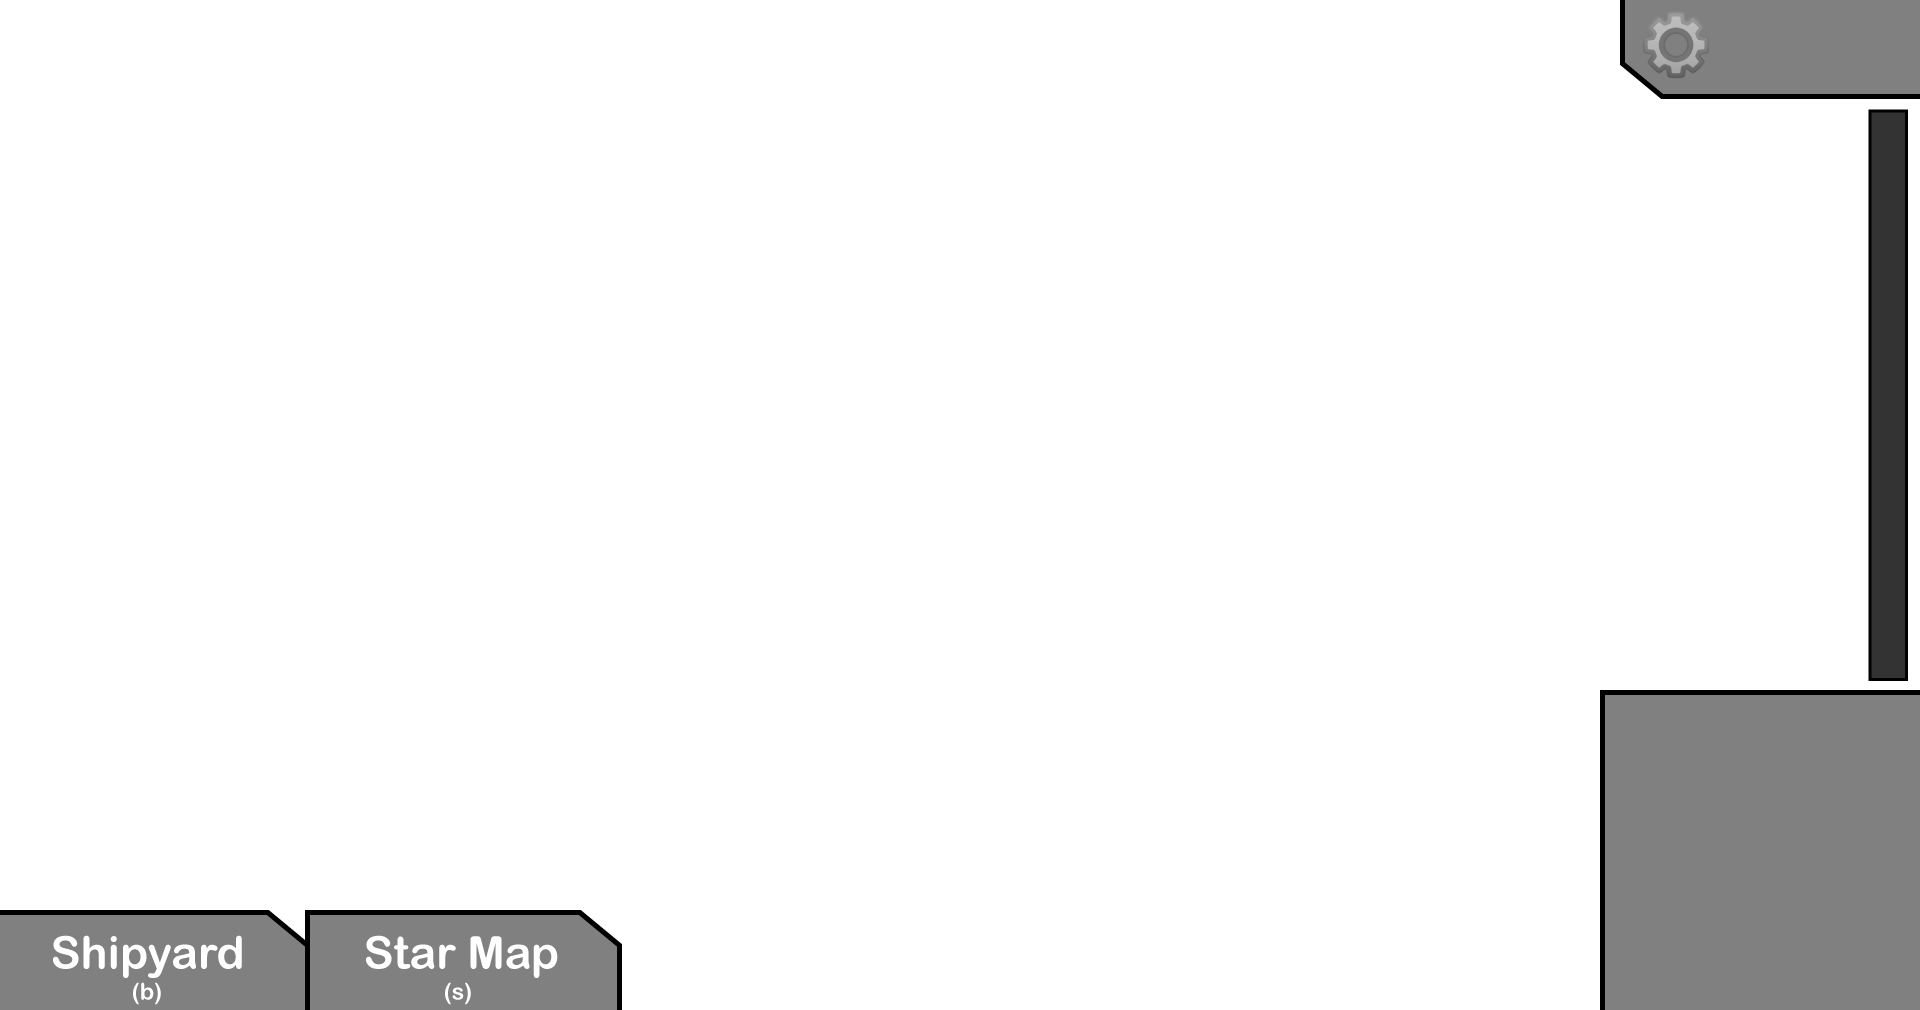
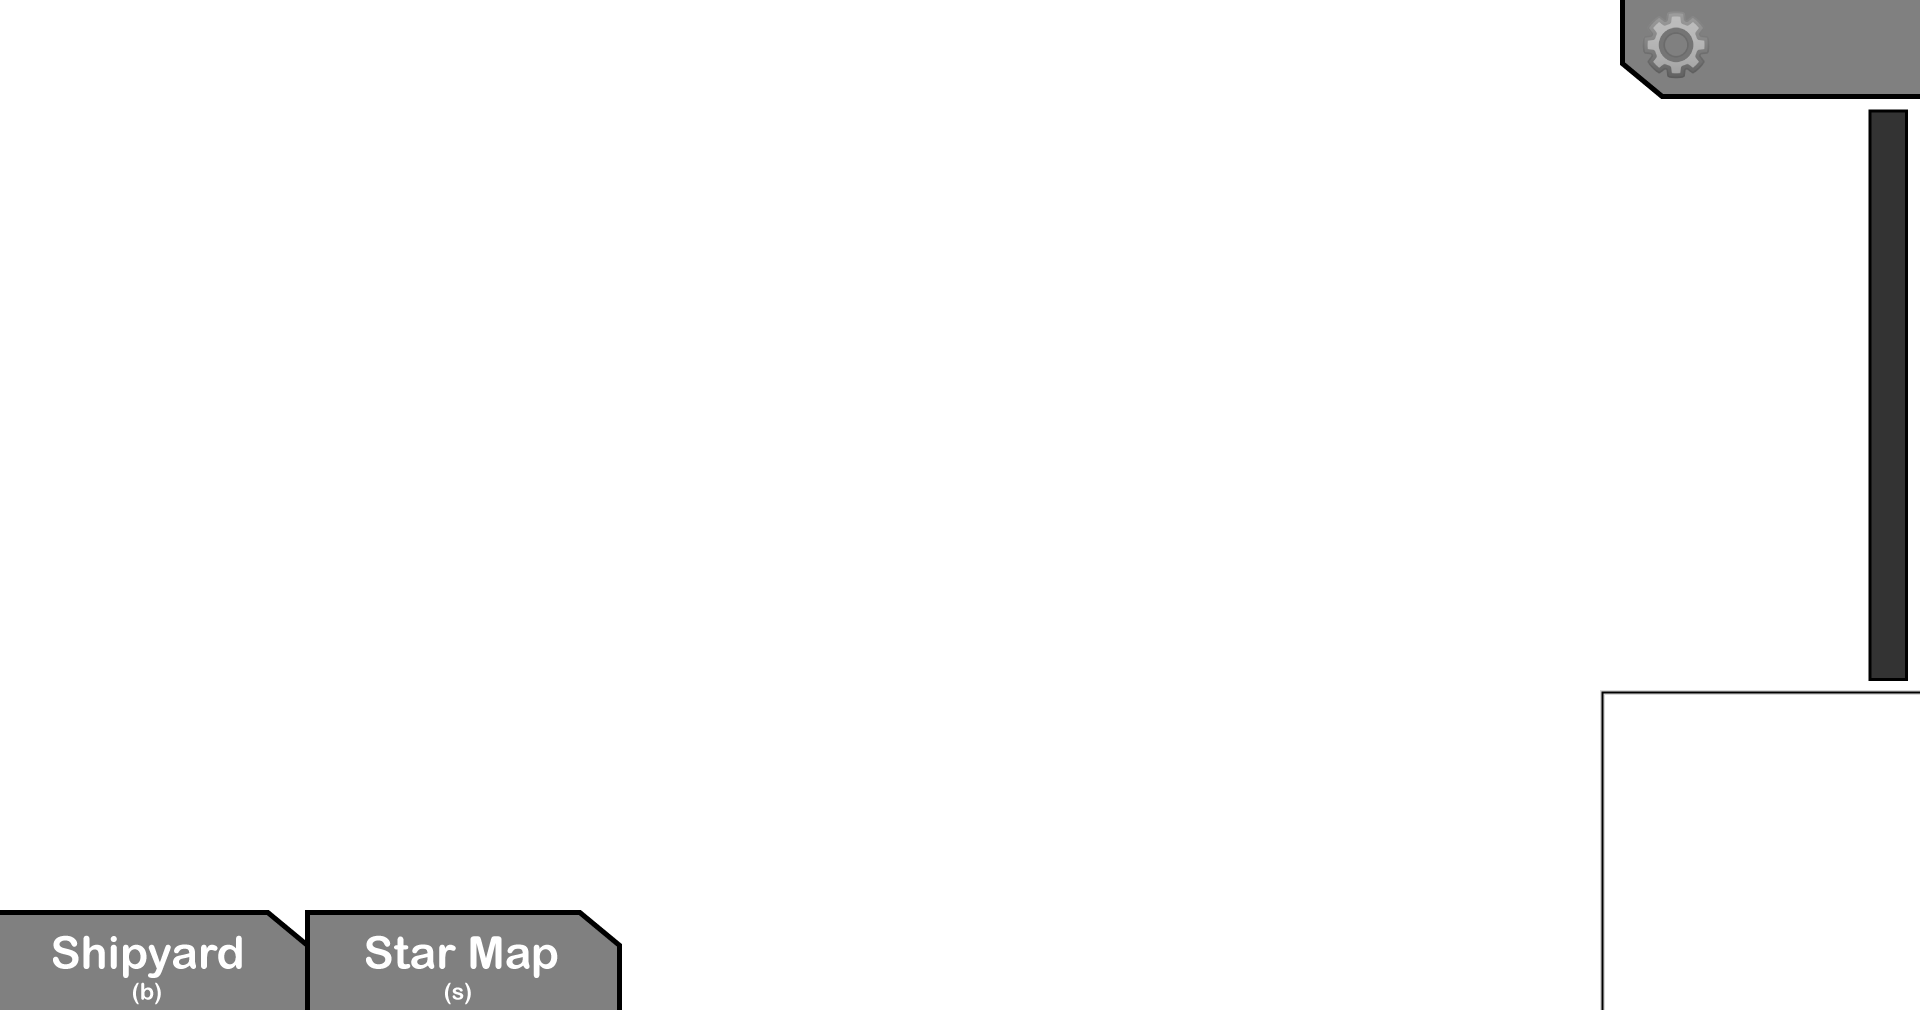
mini map added and starting quality of life

Changed region(s): [[0.8125, 0.6752, 1.0, 1.0]]

diff --git a/Drone Constructor - CSQ4 Game/src/BattleScene.java b/Drone Constructor - CSQ4 Game/src/BattleScene.java
@@ -14,6 +14,8 @@ public class BattleScene extends Scene {
 
 	BufferedImage ui = Misc.loadImage("/battleScene.png");
 	
+	MiniMap minimap = new MiniMap(1605, 695, 310, 315, .03);
+	
 	Button shipYard;
 	Button starMap;
 
@@ -22,8 +24,10 @@ public class BattleScene extends Scene {
 
 	@Override
 	public void draw(Graphics2D g) {
-		
+		g.setColor(new Color(36, 36, 36));
+		g.fillRect(0, 0, Driver.screenWidth, Driver.screenHeight);
 
+		g.setColor(new Color(87, 87, 87));
 		SceneManager.sm.currSector.drawBasicGrid(g, 1000000, (int) (100 * (1 / Math.sqrt((Camera.scale)))), 2);
 		
 
@@ -52,14 +56,15 @@ public class BattleScene extends Scene {
 	//	System.out.println(((int)((p.transForces[0]/p.mass)*110 - (p.vel.getMagnitude() * Sector.sectorDrag))));
 		//g.fillRect(1825, (int)(677 - 564*((int)((p.transForces[0]/p.mass)*110 - (p.vel.getMagnitude() * Sector.sectorDrag)) / (p.transForces[0]/p.mass))), 33, 564);
 		g.setFont(Misc.font);
-		g.setColor(Color.BLACK);
+		g.setColor(Color.LIGHT_GRAY);
 		g.drawString((int) (p.vel.getMagnitude() * 20) + " mph", 1760, 564 - (int) (564 * ((p.vel.getMagnitude() * 20)
 				/ (int) ((p.transForces[0] * 2462.0 / p.mass / Sector.sectorDrag)))) + 120);
 		
 		
 		//shipYard.draw(g);
 		//starMap.draw(g);
-		
+		minimap.mc.focus(Camera.toMap(Driver.screenWidth/2, Driver.screenHeight/2));
+minimap.draw(g, SceneManager.sm.currSector.ships);
 
 	}
 
@@ -99,7 +104,7 @@ public class BattleScene extends Scene {
 		if (InputManager.keysReleased[66] || shipYard.clicked) {
 			swtichToBuild();
 		}
-		if (InputManager.keysReleased[83] || starMap.clicked) {
+		if (InputManager.keysReleased[77] || starMap.clicked) {
 			swtichToStarMap();
 		}
 		// key to select a ship

diff --git a/Drone Constructor - CSQ4 Game/src/StarMap.java b/Drone Constructor - CSQ4 Game/src/StarMap.java
@@ -1,6 +1,7 @@
 import java.awt.BasicStroke;
 import java.awt.Color;
 import java.awt.Graphics2D;
+import java.awt.image.BufferedImage;
 import java.util.ArrayList;
 
 public class StarMap extends Scene {
@@ -14,6 +15,8 @@ public class StarMap extends Scene {
 	double rSkipChance = .1;
 	int sX = 6;
 	int sY = 5;
+	
+	BufferedImage star = Misc.loadImage("/star.png");
 	
 	Ship player;
 
@@ -34,12 +37,13 @@ public class StarMap extends Scene {
 		}
 
 		for (Sector s : sectors) {
-			s.pos.fillCircle(g, 5);
+			g.drawImage(star, (int)s.pos.x - star.getWidth()/4, (int)s.pos.y - star.getHeight()/4,star.getWidth()/2, star.getHeight()/2, null);
 		}
+		g.setStroke(new BasicStroke(6));
 		g.setColor(Color.GREEN);
-		currSector.pos.fillCircle(g, 10);
+		currSector.pos.drawCircle(g, 30);
 		g.setColor(Color.blue);
-		endSector.pos.fillCircle(g, 10);
+		endSector.pos.drawCircle(g, 30);
 		g.setColor(Color.white);
 		g.setFont(Misc.arialSmall);
 		g.drawString("YOU", (int) currSector.pos.x, (int) currSector.pos.y - 30);
@@ -51,14 +55,15 @@ public class StarMap extends Scene {
 			g.setFont(Misc.arialBig);
 			g.setColor(Color.white);
 			g.drawString("JUMP", 1920/2 - 100, 1010 - 80);
-			g.setStroke(new BasicStroke(3));
-			g.setColor(Color.white);
-			selected.pos.drawCircle(g, 10);
+			g.setStroke(new BasicStroke(6));
+			g.setColor(Color.CYAN);
+			selected.pos.drawCircle(g, 30);
+			currSector.pos.drawDashedLine(g, selected.pos);
 			}
 		if(hover != null) {
-			g.setStroke(new BasicStroke(3));
+			g.setStroke(new BasicStroke(6));
 			g.setColor(Color.white);
-			hover.pos.drawCircle(g, 10);
+			hover.pos.drawCircle(g, 30);
 		}
 		
 	}

diff --git a/Drone Constructor - CSQ4 Game/src/MiniMap.java b/Drone Constructor - CSQ4 Game/src/MiniMap.java
@@ -4,15 +4,28 @@ import java.util.ArrayList;
 
 public class MiniMap {
 	Rect bounds;
-	double scale = 1.0/10.0; //1 px map = 10 px game
-	MiniCam mc = new MiniCam(0,0,scale, (int)bounds.w,(int)bounds.h);
+	double scale; //1 px map = 10 px game
+	MiniCam mc;
+	
+	public MiniMap(int x,int y, int w, int h, double scale) {
+		this.bounds = new Rect(x,y,w,h);
+		this.scale = scale;
+		this.mc = new MiniCam(x, y, scale, w, h);
+	}
 
 	public void draw(Graphics2D g, ArrayList<Ship> ships) {
+		g.setPaint(new Color(0, 175, 201,128));
+		g.fillRect((int)bounds.pos.x, (int)bounds.pos.y, (int)bounds.w, (int)bounds.h);
 		for(Ship s : ships) {
 		g.setColor(Color.RED);
 			if(s.isPlayer) g.setColor(Color.green);
 			
-			Point loc = new Point(s.cm.x, s.cm.y);
+			Point loc = new Point(mc.toXScreen((int)(s.cm.x ))  + bounds.pos.x, mc.toYScreen((int)(s.cm.y)) + bounds.pos.y);
+			if(loc.x > bounds.pos.x + bounds.w) loc.x = bounds.pos.x + bounds.w;
+			if(loc.x < bounds.pos.x) loc.x = bounds.pos.x;
+			if(loc.y > bounds.pos.y + bounds.h) loc.y = bounds.pos.y + bounds.h;
+			if(loc.y < bounds.pos.y) loc.y = bounds.pos.y;
+			loc.fillCircle(g, 5);
 			
 		}
 	}

diff --git a/Drone Constructor - CSQ4 Game/src/Sector.java b/Drone Constructor - CSQ4 Game/src/Sector.java
@@ -19,7 +19,7 @@ public abstract class Sector {
 	
 	public void drawBasicGrid(Graphics2D g, int s, int spacing, int sens) {
 		for (int i = (int)(-s/spacing); i <= (int)(s / spacing); i++) {
-			g.setColor(Color.LIGHT_GRAY);
+//			g.setColor(Color.LIGHT_GRAY);
 			g.drawLine(Camera.toXScreen(i * (spacing)), Camera.toYScreen(-s), Camera.toXScreen(i * (spacing)),
 					Camera.toYScreen(s));
 			g.drawLine(Camera.toXScreen(-s), Camera.toYScreen(i * (spacing)), Camera.toXScreen(s),

diff --git a/Drone Constructor - CSQ4 Game/src/EnemyShip.java b/Drone Constructor - CSQ4 Game/src/EnemyShip.java
@@ -25,9 +25,10 @@ public class EnemyShip extends Ship {
 		cm.add(vel);
 		addProjectiles(sec);
 		for(Ship s : sec.ships) {
-			if(s.isPlayer) {
-				this.shoot(s);
+			if(s.isPlayer && !s.destroyed) {
+				
 				if(cm.distanceTo(s.cm) < 1500) {
+					this.shoot(s);
 					if(cm.distanceTo(s.cm) > 800) {
 					this.cmdMoveTo(s.cm);
 					}else {

diff --git a/Drone Constructor - CSQ4 Game/src/TestSector.java b/Drone Constructor - CSQ4 Game/src/TestSector.java
@@ -1,4 +1,3 @@
-import java.awt.Color;
 import java.awt.Graphics2D;
 
 public class TestSector extends Sector {
